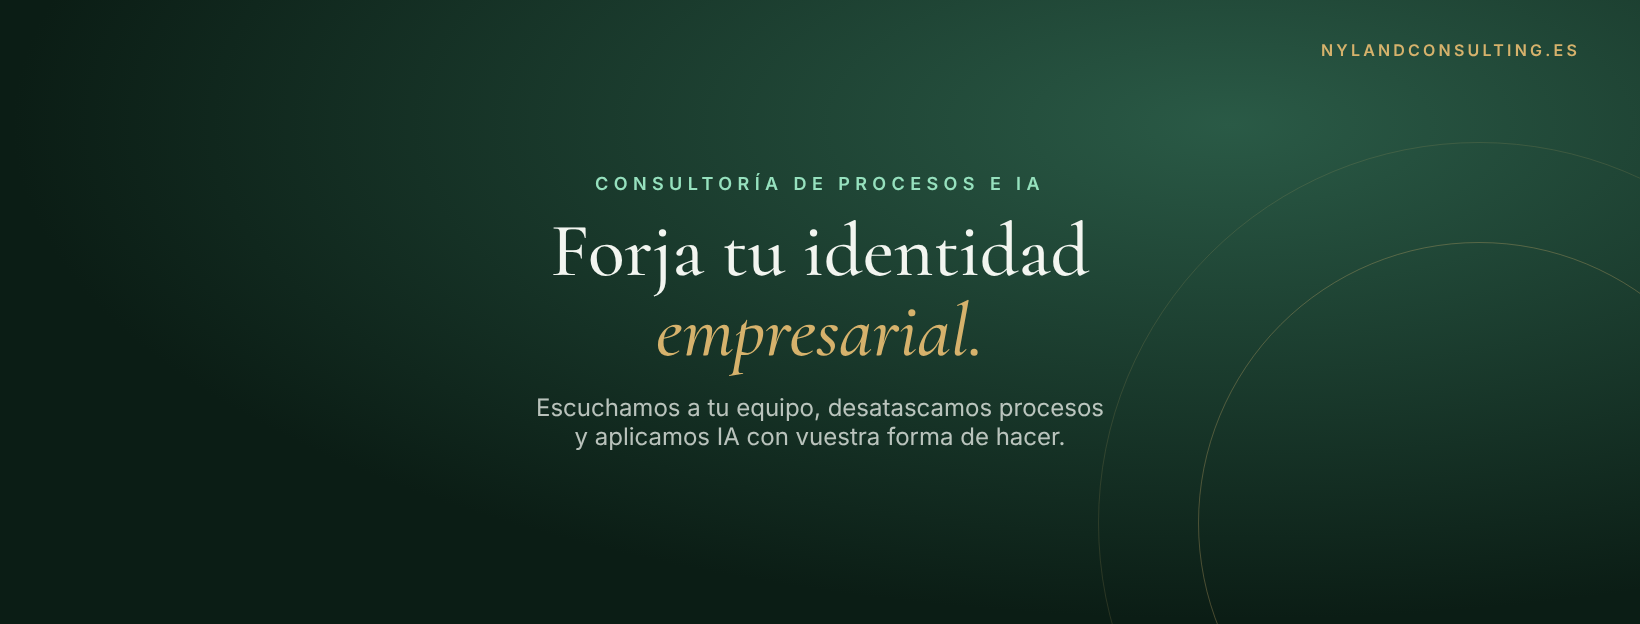
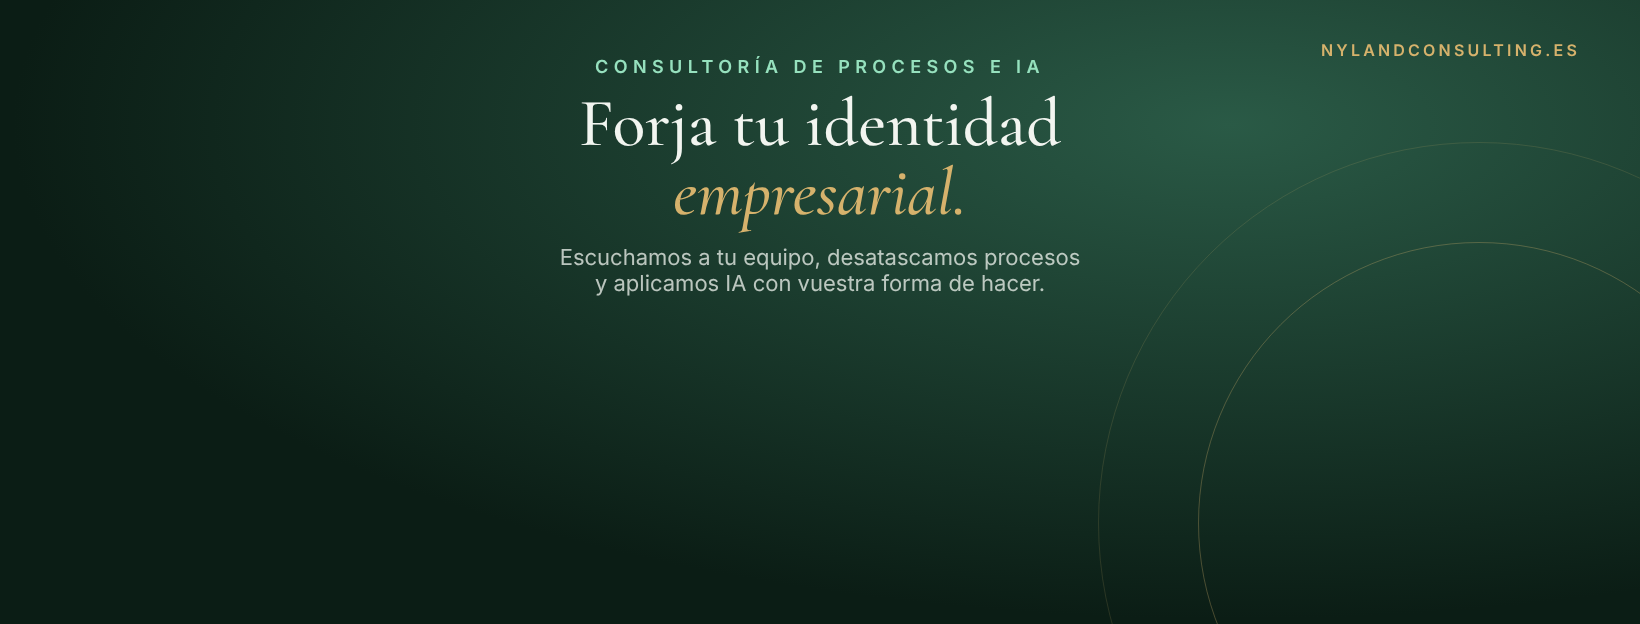
Portada de Facebook: texto arriba para no chocar con la foto de perfil
Claude-Session: https://claude.ai/code/session_013p4wFHU7K8dK5ydQ4b9ukd

diff --git a/nyland/marketing/redes/portada.html b/nyland/marketing/redes/portada.html
@@ -1,9 +1,9 @@
 <!doctype html><html><head><meta charset="utf-8"><link rel="stylesheet" href="fonts.css"><style>
-body{margin:0}.c{width:1640px;height:624px;background:radial-gradient(ellipse at 75% 20%,#2a5a46,#0b1d15 70%);color:#F2F5F0;font-family:Inter;position:relative;overflow:hidden;display:flex;align-items:center}
-.t{margin:0 auto;max-width:980px;text-align:center}
+body{margin:0}.c{width:1640px;height:624px;background:radial-gradient(ellipse at 75% 20%,#2a5a46,#0b1d15 70%);color:#F2F5F0;font-family:Inter;position:relative;overflow:hidden;display:flex;align-items:flex-start}
+.t{margin:0 auto;max-width:980px;text-align:center;padding-top:56px}
 .k{font:600 18px Inter;letter-spacing:.3em;text-transform:uppercase;color:#96E1BE}
-h1{font:500 76px/1.05 'Cormorant Garamond',serif;margin:18px 0 22px}h1 em{color:#D6B26C}
-p{font-size:24px;color:rgba(242,245,240,.75);margin:0}
+h1{font:500 68px/1.02 'Cormorant Garamond',serif;margin:12px 0 16px}h1 em{color:#D6B26C}
+p{font-size:22px;color:rgba(242,245,240,.75);margin:0}
 .anillo{position:absolute;right:-120px;bottom:-180px;width:560px;height:560px;border-radius:50%;border:1px solid rgba(214,178,108,.3)}
 .anillo.b{width:760px;height:760px;right:-220px;bottom:-280px;border-color:rgba(214,178,108,.15)}
 .s{position:absolute;right:60px;top:40px;font:600 16px Inter;letter-spacing:.2em;color:#D6B26C}
